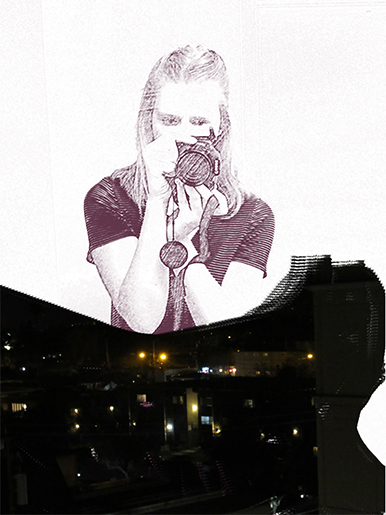
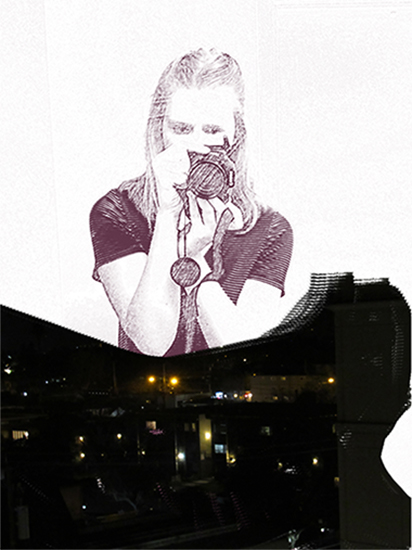
image and word changes

diff --git a/index.html b/index.html
@@ -5,14 +5,14 @@
 <link rel="stylesheet" type="text/css" href="styles.css">
 <body>
 <h1>Student Art Presentations and Process</h1>
-<center><img src="ruin.jpg" alt="painted word sculpture" class="500px; 386px"></center></img>
+<center><img src="ruin.jpg" alt="painted word sculpture" class="650px; 488px"></center></img>
 <h1><i>Ruin</i></h1>
-<center><img src="photoshop.jpg" alt="girl in front of mirror with camara" class="386px; 515px"></center></img>
+<center><img src="photoshop.jpg" alt="girl in front of mirror with camara" class="412px; 550px"></center></img>
 <h1><i>Reflections</i></h1>
-<center><img src="cranes.jpg" alt="image of paper cranes" class="500px; 386px"></center></img>
+<center><img src="cranes.jpg" alt="image of paper cranes" class="841px; 650px"></center></img>
 <h1><i>Memories</i></h1>
 <h2>Personal Project</h2>
 <h3>PROJECT DESCRIPTION</h3>
-<p><i>Memories</i> is a project which was inspired by a trip I took to the  ruins of the Wat temples, during a vacation to Vietnam.  I remember looking at these ruins and thinking that certain factors- such as war and time- can cause irreversable damage to these sacred, cultural monuments.  I created this piece after this trip and decided to include the cranes, so I could recreate the emotions- such as a longing for the past and the sense of rebirth- which I got from this cultural experience.</p>
+<p><i>Memories</i> is a project which was inspired by a trip I took to the ruins of the Wat temples, during a vacation to Vietnam.  I remember looking at these ruins and thinking that certain factors- such as war and time- can cause irreversable damage to these sacred, cultural monuments.  I created this piece after this trip and decided to include the cranes, so I could recreate the emotions- such as a longing for the past and the sense of rebirth- which I got from this cultural experience.</p>
 </body>
 </html>
